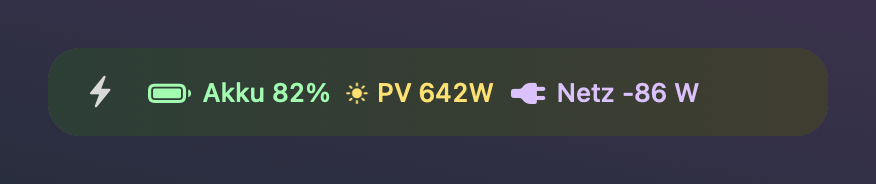
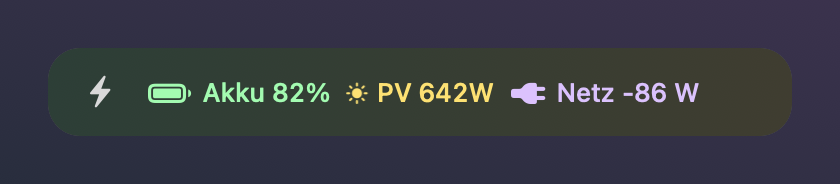
fix: Slim-Bar-Breite aus echten Layout-Maßen statt Schätzung — kein Leerraum rechts

Changed region(s): [[0.0929, 0.4076, 0.8357, 0.5978]]

diff --git a/Sources/SolixBarKit/DetachedMenuBarWindowController.swift b/Sources/SolixBarKit/DetachedMenuBarWindowController.swift
@@ -183,16 +183,24 @@ final class DetachedMenuBarWindowController: NSWindowController, NSWindowDelegat
         return true
     }
 
+    /// Breite aus den echten Layout-Maßen von DetachedMenuBarView ableiten —
+    /// die frühere Schätzung (plus 260-pt-Mindestbreite) ließ rechts sichtbar
+    /// Leerraum stehen.
     private func targetSize(for attributedText: NSAttributedString?, stackedImage: NSImage?, screen: NSScreen?) -> NSSize {
         let textWidth = ceil(stackedImage?.size.width ?? attributedText?.size().width ?? 152)
         let scale = AppSettings.shared.detachedMenuBarScale
-        let iconWidth: CGFloat = AppSettings.shared.detachedShowIcon ? round(34 * scale) : 0
-        let closeWidth: CGFloat = AppSettings.shared.lockDetachedMenuBar ? 0 : round(44 * scale)
-        let horizontalPadding: CGFloat = round(34 * scale)
-        let width = textWidth + iconWidth + closeWidth + horizontalPadding
+        let iconWidth: CGFloat = AppSettings.shared.detachedShowIcon
+            ? round(24 * scale) + round(10 * scale)   // Icon + Stack-Abstand
+            : 0
+        let leading = round(14 * scale)
+        // Rechts: fixiert nur Randabstand; sonst Lücke + Hover-Schließknopf + Rand.
+        let trailing: CGFloat = AppSettings.shared.lockDetachedMenuBar
+            ? round(14 * scale)
+            : 10 + round(28 * scale) + round(8 * scale)
+        let width = leading + iconWidth + textWidth + trailing
         let visibleWidth = screen?.visibleFrame.width ?? 900
         let height = min(68, max(44, round(44 * scale)))
-        return NSSize(width: min(max(width, 260), visibleWidth - 24), height: height)
+        return NSSize(width: min(max(width, 200), visibleWidth - 24), height: height)
     }
 
     private func positionBelowMenuBar(anchor: NSRect?) {